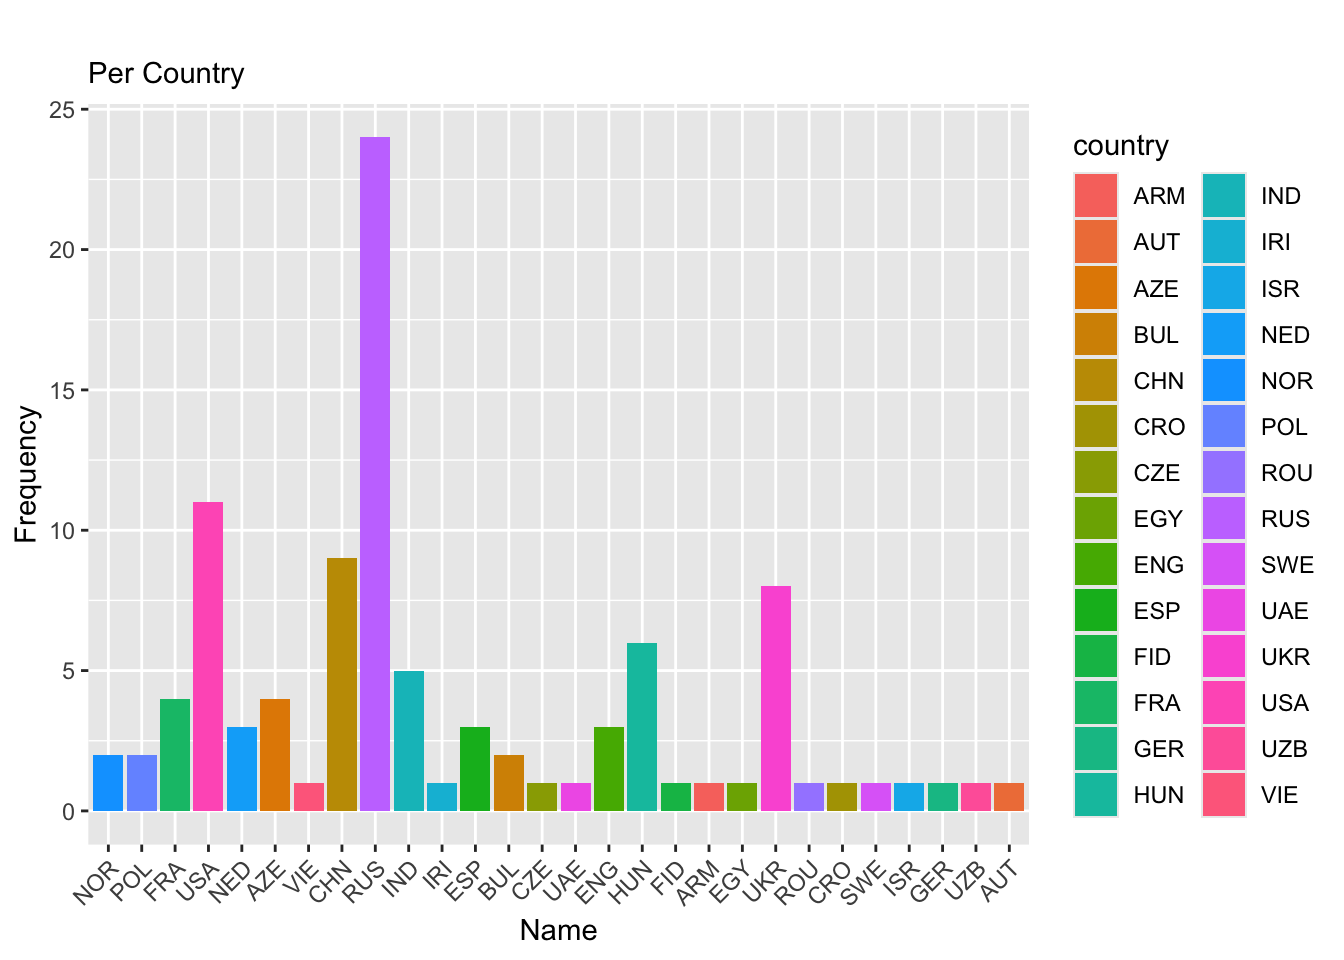
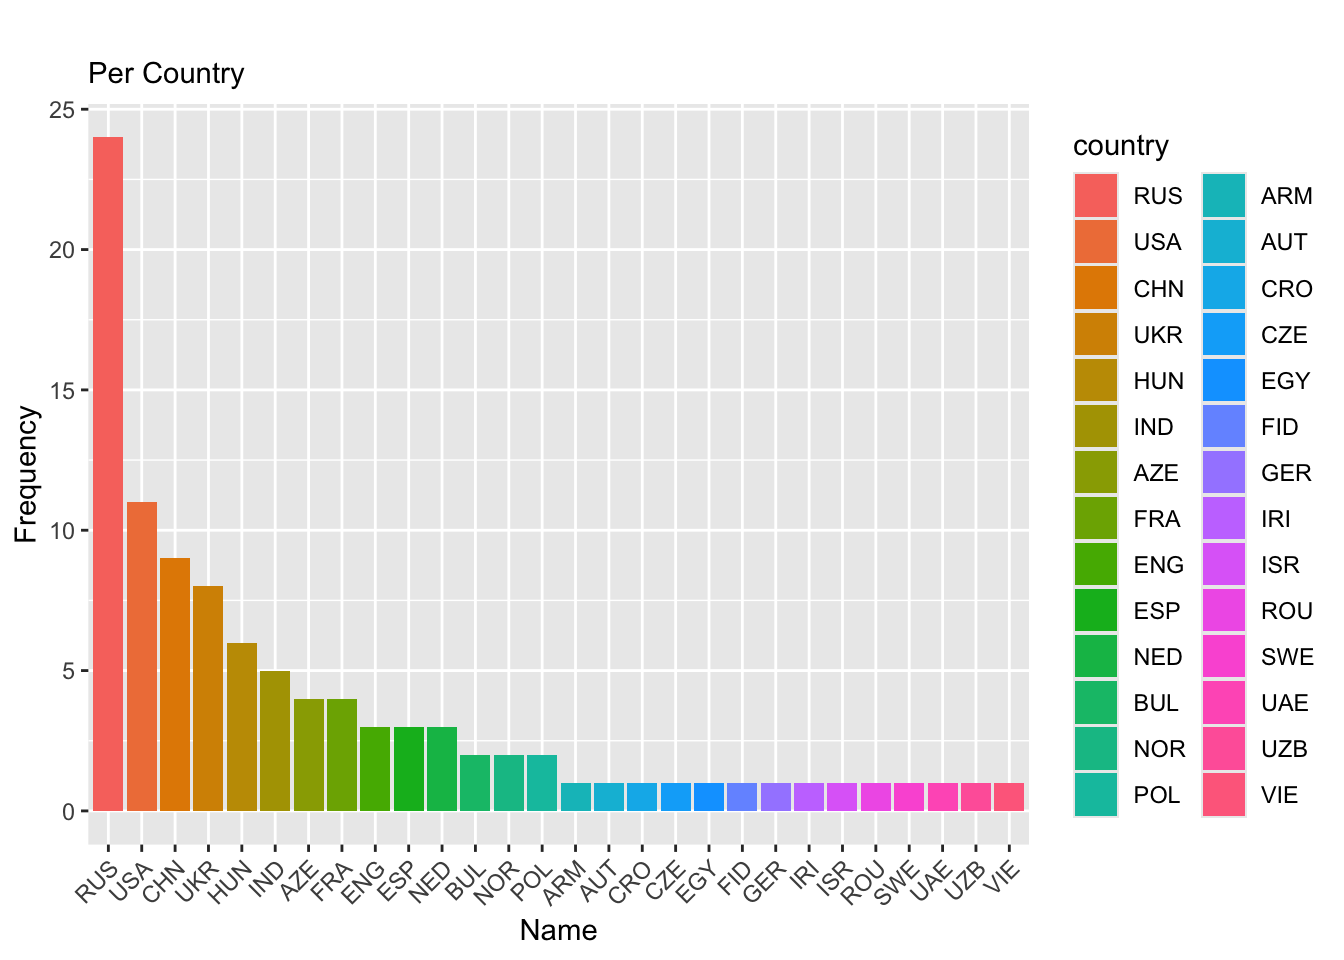
Built site for gh-pages

diff --git a/analysis.html b/analysis.html
@@ -209,25 +209,33 @@ pre > code.sourceCode > span > a:first-child::before { text-decoration: underlin
 </div>
 </div>
 <div class="cell">
-<div class="sourceCode cell-code" id="cb5"><pre class="sourceCode r code-with-copy"><code class="sourceCode r"><span id="cb5-1"><a href="#cb5-1" aria-hidden="true" tabindex="-1"></a>data3 <span class="ot">&lt;-</span> <span class="fu">head</span>(data, <span class="at">n =</span> <span class="dv">100</span>)</span>
-<span id="cb5-2"><a href="#cb5-2" aria-hidden="true" tabindex="-1"></a></span>
+<div class="sourceCode cell-code" id="cb5"><pre class="sourceCode r code-with-copy"><code class="sourceCode r"><span id="cb5-1"><a href="#cb5-1" aria-hidden="true" tabindex="-1"></a><span class="fu">library</span>(dplyr)</span>
+<span id="cb5-2"><a href="#cb5-2" aria-hidden="true" tabindex="-1"></a><span class="fu">library</span>(ggplot2)</span>
 <span id="cb5-3"><a href="#cb5-3" aria-hidden="true" tabindex="-1"></a></span>
-<span id="cb5-4"><a href="#cb5-4" aria-hidden="true" tabindex="-1"></a></span>
-<span id="cb5-5"><a href="#cb5-5" aria-hidden="true" tabindex="-1"></a></span>
-<span id="cb5-6"><a href="#cb5-6" aria-hidden="true" tabindex="-1"></a>graphic2 <span class="ot">&lt;-</span> <span class="fu">ggplot</span>(data3, <span class="at">mapping =</span> <span class="fu">aes</span>(<span class="at">x =</span> <span class="fu">reorder</span>(country, <span class="sc">-</span>rating) , <span class="at">fill =</span> country)) <span class="sc">+</span> </span>
-<span id="cb5-7"><a href="#cb5-7" aria-hidden="true" tabindex="-1"></a>  <span class="fu">geom_histogram</span>(<span class="at">stat=</span><span class="st">"count"</span>, <span class="at">linewidth =</span> <span class="fl">0.5</span>)  </span></code><button title="Copy to Clipboard" class="code-copy-button"><i class="bi"></i></button></pre></div>
-<div class="cell-output cell-output-stderr">
-<pre><code>Warning in geom_histogram(stat = "count", linewidth = 0.5): Ignoring unknown
-parameters: `binwidth`, `bins`, and `pad`</code></pre>
-</div>
-<div class="sourceCode cell-code" id="cb7"><pre class="sourceCode r code-with-copy"><code class="sourceCode r"><span id="cb7-1"><a href="#cb7-1" aria-hidden="true" tabindex="-1"></a>graphic2<span class="sc">+</span></span>
-<span id="cb7-2"><a href="#cb7-2" aria-hidden="true" tabindex="-1"></a>  <span class="fu">labs</span>(</span>
-<span id="cb7-3"><a href="#cb7-3" aria-hidden="true" tabindex="-1"></a>    <span class="at">title =</span> <span class="st">""</span>,</span>
-<span id="cb7-4"><a href="#cb7-4" aria-hidden="true" tabindex="-1"></a>    <span class="at">subtitle =</span> <span class="st">"Per Country"</span>,</span>
-<span id="cb7-5"><a href="#cb7-5" aria-hidden="true" tabindex="-1"></a>    <span class="at">x =</span> <span class="st">"Name"</span>,</span>
-<span id="cb7-6"><a href="#cb7-6" aria-hidden="true" tabindex="-1"></a>    <span class="at">y =</span> <span class="st">"Frequency"</span></span>
-<span id="cb7-7"><a href="#cb7-7" aria-hidden="true" tabindex="-1"></a>  ) <span class="sc">+</span></span>
-<span id="cb7-8"><a href="#cb7-8" aria-hidden="true" tabindex="-1"></a>      <span class="fu">theme</span>(<span class="at">axis.text.x =</span> <span class="fu">element_text</span>(<span class="at">angle =</span> <span class="dv">45</span>, <span class="at">hjust =</span> <span class="dv">1</span>))    </span></code><button title="Copy to Clipboard" class="code-copy-button"><i class="bi"></i></button></pre></div>
+<span id="cb5-4"><a href="#cb5-4" aria-hidden="true" tabindex="-1"></a><span class="co"># Get the top 100 rows</span></span>
+<span id="cb5-5"><a href="#cb5-5" aria-hidden="true" tabindex="-1"></a>data3 <span class="ot">&lt;-</span> <span class="fu">head</span>(data, <span class="at">n =</span> <span class="dv">100</span>)</span>
+<span id="cb5-6"><a href="#cb5-6" aria-hidden="true" tabindex="-1"></a></span>
+<span id="cb5-7"><a href="#cb5-7" aria-hidden="true" tabindex="-1"></a><span class="co"># Reorder 'country' by descending frequency</span></span>
+<span id="cb5-8"><a href="#cb5-8" aria-hidden="true" tabindex="-1"></a>country_order <span class="ot">&lt;-</span> data3 <span class="sc">%&gt;%</span></span>
+<span id="cb5-9"><a href="#cb5-9" aria-hidden="true" tabindex="-1"></a>  <span class="fu">count</span>(country) <span class="sc">%&gt;%</span></span>
+<span id="cb5-10"><a href="#cb5-10" aria-hidden="true" tabindex="-1"></a>  <span class="fu">arrange</span>(<span class="fu">desc</span>(n)) <span class="sc">%&gt;%</span></span>
+<span id="cb5-11"><a href="#cb5-11" aria-hidden="true" tabindex="-1"></a>  <span class="fu">pull</span>(country)</span>
+<span id="cb5-12"><a href="#cb5-12" aria-hidden="true" tabindex="-1"></a></span>
+<span id="cb5-13"><a href="#cb5-13" aria-hidden="true" tabindex="-1"></a><span class="co"># Convert 'country' to a factor with levels in descending frequency</span></span>
+<span id="cb5-14"><a href="#cb5-14" aria-hidden="true" tabindex="-1"></a>data3<span class="sc">$</span>country <span class="ot">&lt;-</span> <span class="fu">factor</span>(data3<span class="sc">$</span>country, <span class="at">levels =</span> country_order)</span>
+<span id="cb5-15"><a href="#cb5-15" aria-hidden="true" tabindex="-1"></a></span>
+<span id="cb5-16"><a href="#cb5-16" aria-hidden="true" tabindex="-1"></a><span class="co"># Plot the graph</span></span>
+<span id="cb5-17"><a href="#cb5-17" aria-hidden="true" tabindex="-1"></a>graphic2 <span class="ot">&lt;-</span> <span class="fu">ggplot</span>(data3, <span class="fu">aes</span>(<span class="at">x =</span> country, <span class="at">fill =</span> country)) <span class="sc">+</span> </span>
+<span id="cb5-18"><a href="#cb5-18" aria-hidden="true" tabindex="-1"></a>  <span class="fu">geom_bar</span>(<span class="at">linewidth =</span> <span class="fl">0.5</span>) <span class="sc">+</span></span>
+<span id="cb5-19"><a href="#cb5-19" aria-hidden="true" tabindex="-1"></a>  <span class="fu">labs</span>(</span>
+<span id="cb5-20"><a href="#cb5-20" aria-hidden="true" tabindex="-1"></a>    <span class="at">title =</span> <span class="st">""</span>,</span>
+<span id="cb5-21"><a href="#cb5-21" aria-hidden="true" tabindex="-1"></a>    <span class="at">subtitle =</span> <span class="st">"Per Country"</span>,</span>
+<span id="cb5-22"><a href="#cb5-22" aria-hidden="true" tabindex="-1"></a>    <span class="at">x =</span> <span class="st">"Name"</span>,</span>
+<span id="cb5-23"><a href="#cb5-23" aria-hidden="true" tabindex="-1"></a>    <span class="at">y =</span> <span class="st">"Frequency"</span></span>
+<span id="cb5-24"><a href="#cb5-24" aria-hidden="true" tabindex="-1"></a>  ) <span class="sc">+</span></span>
+<span id="cb5-25"><a href="#cb5-25" aria-hidden="true" tabindex="-1"></a>  <span class="fu">theme</span>(<span class="at">axis.text.x =</span> <span class="fu">element_text</span>(<span class="at">angle =</span> <span class="dv">45</span>, <span class="at">hjust =</span> <span class="dv">1</span>))</span>
+<span id="cb5-26"><a href="#cb5-26" aria-hidden="true" tabindex="-1"></a></span>
+<span id="cb5-27"><a href="#cb5-27" aria-hidden="true" tabindex="-1"></a>graphic2</span></code><button title="Copy to Clipboard" class="code-copy-button"><i class="bi"></i></button></pre></div>
 <div class="cell-output-display">
 <div>
 <figure class="figure">
@@ -237,27 +245,69 @@ parameters: `binwidth`, `bins`, and `pad`</code></pre>
 </div>
 </div>
 <div class="cell">
-<div class="sourceCode cell-code" id="cb8"><pre class="sourceCode r code-with-copy"><code class="sourceCode r"><span id="cb8-1"><a href="#cb8-1" aria-hidden="true" tabindex="-1"></a>data4<span class="ot">&lt;-</span> data <span class="sc">%&gt;%</span></span>
-<span id="cb8-2"><a href="#cb8-2" aria-hidden="true" tabindex="-1"></a><span class="fu">filter</span>(country <span class="sc">==</span> <span class="fu">c</span>(<span class="st">"India"</span>))</span>
-<span id="cb8-3"><a href="#cb8-3" aria-hidden="true" tabindex="-1"></a></span>
-<span id="cb8-4"><a href="#cb8-4" aria-hidden="true" tabindex="-1"></a></span>
-<span id="cb8-5"><a href="#cb8-5" aria-hidden="true" tabindex="-1"></a></span>
-<span id="cb8-6"><a href="#cb8-6" aria-hidden="true" tabindex="-1"></a></span>
-<span id="cb8-7"><a href="#cb8-7" aria-hidden="true" tabindex="-1"></a>graphic3 <span class="ot">&lt;-</span> <span class="fu">ggplot</span>(data4, <span class="at">mapping =</span> <span class="fu">aes</span>(<span class="at">x =</span> name  , <span class="at">y =</span> rating , <span class="at">fill =</span> country)) <span class="sc">+</span> </span>
-<span id="cb8-8"><a href="#cb8-8" aria-hidden="true" tabindex="-1"></a> <span class="fu">geom_density</span>( <span class="at">linewidth =</span> <span class="fl">0.5</span>)  </span>
-<span id="cb8-9"><a href="#cb8-9" aria-hidden="true" tabindex="-1"></a></span>
-<span id="cb8-10"><a href="#cb8-10" aria-hidden="true" tabindex="-1"></a></span>
-<span id="cb8-11"><a href="#cb8-11" aria-hidden="true" tabindex="-1"></a>graphic3<span class="sc">+</span></span>
-<span id="cb8-12"><a href="#cb8-12" aria-hidden="true" tabindex="-1"></a>  <span class="fu">labs</span>(</span>
-<span id="cb8-13"><a href="#cb8-13" aria-hidden="true" tabindex="-1"></a>    <span class="at">title =</span> <span class="st">""</span>,</span>
-<span id="cb8-14"><a href="#cb8-14" aria-hidden="true" tabindex="-1"></a>    <span class="at">subtitle =</span> <span class="st">"Per Country"</span>,</span>
-<span id="cb8-15"><a href="#cb8-15" aria-hidden="true" tabindex="-1"></a>    <span class="at">x =</span> <span class="st">"Name"</span>,</span>
-<span id="cb8-16"><a href="#cb8-16" aria-hidden="true" tabindex="-1"></a>    <span class="at">y =</span> <span class="st">"Frequency"</span></span>
-<span id="cb8-17"><a href="#cb8-17" aria-hidden="true" tabindex="-1"></a>  )</span></code><button title="Copy to Clipboard" class="code-copy-button"><i class="bi"></i></button></pre></div>
+<div class="sourceCode cell-code" id="cb6"><pre class="sourceCode r code-with-copy"><code class="sourceCode r"><span id="cb6-1"><a href="#cb6-1" aria-hidden="true" tabindex="-1"></a>data4 <span class="ot">&lt;-</span> data <span class="sc">%&gt;%</span> </span>
+<span id="cb6-2"><a href="#cb6-2" aria-hidden="true" tabindex="-1"></a>  <span class="fu">filter</span>(country <span class="sc">==</span> <span class="st">"RUS"</span>)</span>
+<span id="cb6-3"><a href="#cb6-3" aria-hidden="true" tabindex="-1"></a></span>
+<span id="cb6-4"><a href="#cb6-4" aria-hidden="true" tabindex="-1"></a></span>
+<span id="cb6-5"><a href="#cb6-5" aria-hidden="true" tabindex="-1"></a>graphic3<span class="ot">&lt;-</span> <span class="fu">ggplot</span>(data4,<span class="at">mapping =</span> <span class="fu">aes</span>(<span class="at">x=</span>rating, <span class="at">fill =</span> country)) <span class="sc">+</span></span>
+<span id="cb6-6"><a href="#cb6-6" aria-hidden="true" tabindex="-1"></a>  <span class="fu">geom_histogram</span>()</span>
+<span id="cb6-7"><a href="#cb6-7" aria-hidden="true" tabindex="-1"></a></span>
+<span id="cb6-8"><a href="#cb6-8" aria-hidden="true" tabindex="-1"></a></span>
+<span id="cb6-9"><a href="#cb6-9" aria-hidden="true" tabindex="-1"></a>graphic3<span class="sc">+</span></span>
+<span id="cb6-10"><a href="#cb6-10" aria-hidden="true" tabindex="-1"></a> <span class="fu">labs</span>(<span class="at">title=</span><span class="st">""</span>,</span>
+<span id="cb6-11"><a href="#cb6-11" aria-hidden="true" tabindex="-1"></a>       <span class="at">subtitle=</span><span class="st">""</span>,</span>
+<span id="cb6-12"><a href="#cb6-12" aria-hidden="true" tabindex="-1"></a>       <span class="at">x=</span><span class="st">"Name"</span>,</span>
+<span id="cb6-13"><a href="#cb6-13" aria-hidden="true" tabindex="-1"></a>       <span class="at">y=</span><span class="st">""</span>,</span>
+<span id="cb6-14"><a href="#cb6-14" aria-hidden="true" tabindex="-1"></a> )</span></code><button title="Copy to Clipboard" class="code-copy-button"><i class="bi"></i></button></pre></div>
+<div class="cell-output cell-output-stderr">
+<pre><code>`stat_bin()` using `bins = 30`. Pick better value with `binwidth`.</code></pre>
+</div>
 <div class="cell-output-display">
 <div>
 <figure class="figure">
 <p><img src="analysis_files/figure-html/graphic3-1.png" class="img-fluid figure-img" width="672"></p>
+</figure>
+</div>
+</div>
+</div>
+<div class="cell">
+<div class="sourceCode cell-code" id="cb8"><pre class="sourceCode r code-with-copy"><code class="sourceCode r"><span id="cb8-1"><a href="#cb8-1" aria-hidden="true" tabindex="-1"></a><span class="fu">library</span>(dplyr)</span>
+<span id="cb8-2"><a href="#cb8-2" aria-hidden="true" tabindex="-1"></a><span class="fu">library</span>(ggplot2)</span>
+<span id="cb8-3"><a href="#cb8-3" aria-hidden="true" tabindex="-1"></a><span class="fu">library</span>(countrycode)</span>
+<span id="cb8-4"><a href="#cb8-4" aria-hidden="true" tabindex="-1"></a></span>
+<span id="cb8-5"><a href="#cb8-5" aria-hidden="true" tabindex="-1"></a><span class="co"># Map ISO3 country codes to continents</span></span>
+<span id="cb8-6"><a href="#cb8-6" aria-hidden="true" tabindex="-1"></a>data_with_continent <span class="ot">&lt;-</span> data <span class="sc">%&gt;%</span></span>
+<span id="cb8-7"><a href="#cb8-7" aria-hidden="true" tabindex="-1"></a>  <span class="fu">mutate</span>(<span class="at">continent =</span> <span class="fu">countrycode</span>(country, <span class="at">origin =</span> <span class="st">"iso3c"</span>, <span class="at">destination =</span> <span class="st">"continent"</span>))</span></code><button title="Copy to Clipboard" class="code-copy-button"><i class="bi"></i></button></pre></div>
+<div class="cell-output cell-output-stderr">
+<pre><code>Warning: There was 1 warning in `mutate()`.
+ℹ In argument: `continent = countrycode(country, origin = "iso3c", destination
+  = "continent")`.
+Caused by warning:
+! Some values were not matched unambiguously: AHO, ALG, ANG, ANT, ARU, BAH, BAN, BAR, BER, BHU, BOT, BRU, BUL, BUR, CAM, CAY, CHI, CRC, CRO, DEN, ENG, ESA, FAI, FID, FIJ, GAM, GCI, GER, GRE, GUA, HAI, HON, INA, IOM, IRI, ISV, IVB, JCI, KOS, KSA, KUW, LAT, LBA, LES, MAD, MAS, MAW, MGL, MNC, MRI, MTN, MYA, NCA, NED, NEP, NGR, OMA, PAR, PHI, PLE, POR, PUR, RSA, SCO, SEY, SLO, SOL, SRI, SUD, SUI, TAN, TOG, TPE, UAE, URU, VIE, WLS, ZAM, ZIM</code></pre>
+</div>
+<div class="sourceCode cell-code" id="cb10"><pre class="sourceCode r code-with-copy"><code class="sourceCode r"><span id="cb10-1"><a href="#cb10-1" aria-hidden="true" tabindex="-1"></a><span class="co"># Compute average rating by continent</span></span>
+<span id="cb10-2"><a href="#cb10-2" aria-hidden="true" tabindex="-1"></a>avg_rating_by_continent <span class="ot">&lt;-</span> data_with_continent <span class="sc">%&gt;%</span></span>
+<span id="cb10-3"><a href="#cb10-3" aria-hidden="true" tabindex="-1"></a>  <span class="fu">filter</span>(<span class="sc">!</span><span class="fu">is.na</span>(rating), <span class="sc">!</span><span class="fu">is.na</span>(continent)) <span class="sc">%&gt;%</span></span>
+<span id="cb10-4"><a href="#cb10-4" aria-hidden="true" tabindex="-1"></a>  <span class="fu">group_by</span>(continent) <span class="sc">%&gt;%</span></span>
+<span id="cb10-5"><a href="#cb10-5" aria-hidden="true" tabindex="-1"></a>  <span class="fu">summarise</span>(<span class="at">avg_rating =</span> <span class="fu">mean</span>(rating, <span class="at">na.rm =</span> <span class="cn">TRUE</span>)) <span class="sc">%&gt;%</span></span>
+<span id="cb10-6"><a href="#cb10-6" aria-hidden="true" tabindex="-1"></a>  <span class="fu">arrange</span>(<span class="fu">desc</span>(avg_rating))</span>
+<span id="cb10-7"><a href="#cb10-7" aria-hidden="true" tabindex="-1"></a></span>
+<span id="cb10-8"><a href="#cb10-8" aria-hidden="true" tabindex="-1"></a><span class="co"># Reorder for plotting</span></span>
+<span id="cb10-9"><a href="#cb10-9" aria-hidden="true" tabindex="-1"></a>avg_rating_by_continent<span class="sc">$</span>continent <span class="ot">&lt;-</span> <span class="fu">factor</span>(avg_rating_by_continent<span class="sc">$</span>continent, <span class="at">levels =</span> avg_rating_by_continent<span class="sc">$</span>continent)</span>
+<span id="cb10-10"><a href="#cb10-10" aria-hidden="true" tabindex="-1"></a></span>
+<span id="cb10-11"><a href="#cb10-11" aria-hidden="true" tabindex="-1"></a><span class="co"># Plot</span></span>
+<span id="cb10-12"><a href="#cb10-12" aria-hidden="true" tabindex="-1"></a><span class="fu">ggplot</span>(avg_rating_by_continent, <span class="fu">aes</span>(<span class="at">x =</span> continent, <span class="at">y =</span> avg_rating, <span class="at">fill =</span> continent)) <span class="sc">+</span></span>
+<span id="cb10-13"><a href="#cb10-13" aria-hidden="true" tabindex="-1"></a>  <span class="fu">geom_bar</span>(<span class="at">stat =</span> <span class="st">"identity"</span>, <span class="at">linewidth =</span> <span class="fl">0.5</span>) <span class="sc">+</span></span>
+<span id="cb10-14"><a href="#cb10-14" aria-hidden="true" tabindex="-1"></a>  <span class="fu">labs</span>(</span>
+<span id="cb10-15"><a href="#cb10-15" aria-hidden="true" tabindex="-1"></a>    <span class="at">title =</span> <span class="st">"Average Chess Rating by Continent"</span>,</span>
+<span id="cb10-16"><a href="#cb10-16" aria-hidden="true" tabindex="-1"></a>    <span class="at">x =</span> <span class="st">"Continent"</span>,</span>
+<span id="cb10-17"><a href="#cb10-17" aria-hidden="true" tabindex="-1"></a>    <span class="at">y =</span> <span class="st">"Average Rating"</span></span>
+<span id="cb10-18"><a href="#cb10-18" aria-hidden="true" tabindex="-1"></a>  ) <span class="sc">+</span></span>
+<span id="cb10-19"><a href="#cb10-19" aria-hidden="true" tabindex="-1"></a>  <span class="fu">theme_minimal</span>()</span></code><button title="Copy to Clipboard" class="code-copy-button"><i class="bi"></i></button></pre></div>
+<div class="cell-output-display">
+<div>
+<figure class="figure">
+<p><img src="analysis_files/figure-html/unnamed-chunk-2-1.png" class="img-fluid figure-img" width="672"></p>
 </figure>
 </div>
 </div>

diff --git a/about.html b/about.html
@@ -140,7 +140,7 @@ ul.task-list li input[type="checkbox"] {
 
 <section id="about-me" class="level2">
 <h2 class="anchored" data-anchor-id="about-me">About Me</h2>
-<p>Իմ անունը <strong>Գրիգօրի</strong> է ես</p>
+<p>Իմ անունը <strong>Գրիգօրի</strong> է ես <em>Թումոյի աշակերտ եմ</em>.</p>
 
 
 </section>

diff --git a/sources.html b/sources.html
@@ -141,6 +141,7 @@ ul.task-list li input[type="checkbox"] {
       - about.qmd
       - href: sources.qmd
         text: Sources</code></pre>
+<p>Ես օգտվել եմ Kaggle data . Այս datan 2023 թվականի տվյալներ. https://www.kaggle.com/datasets/goldian/chess</p>
 
 
 
